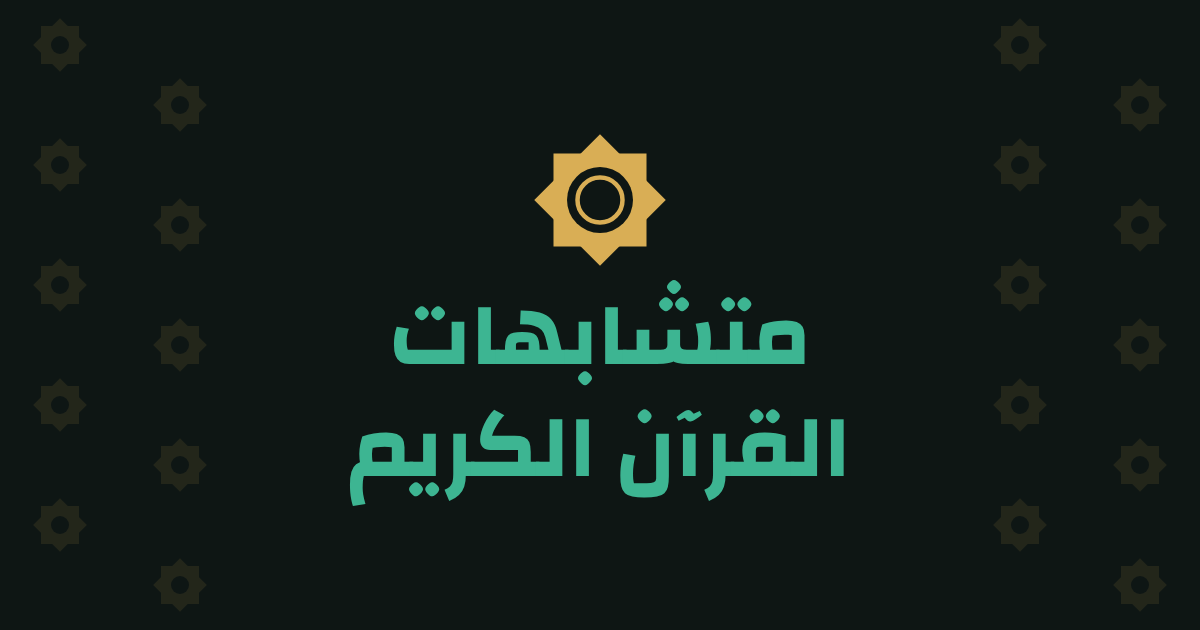
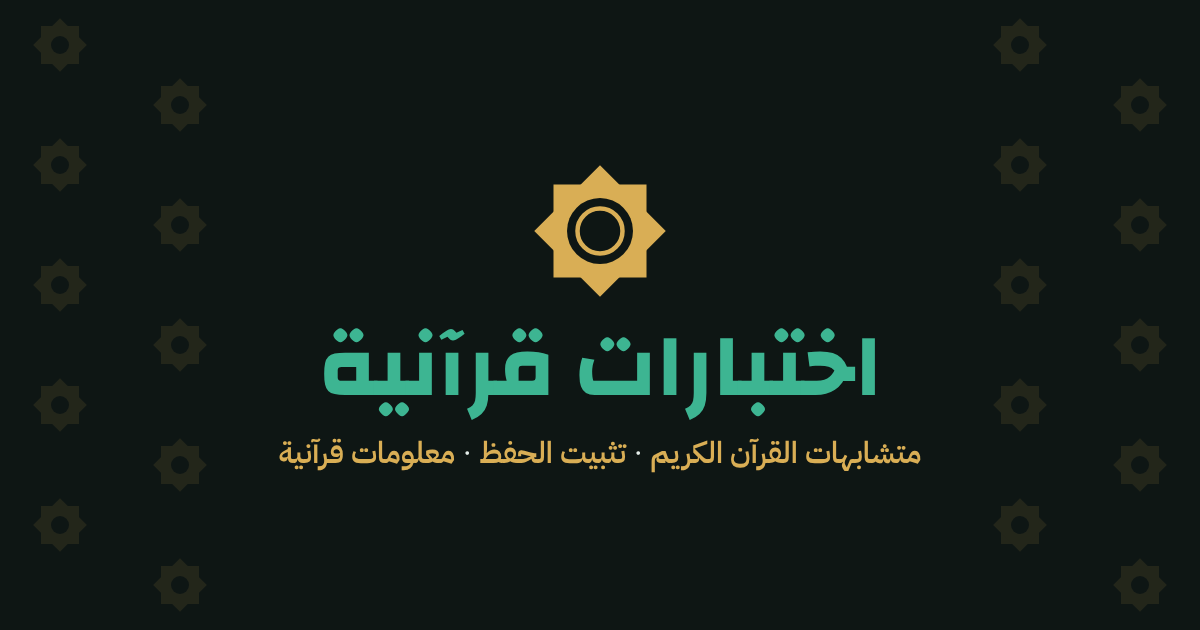
Add files via upload

Changed region(s): [[0.2158, 0.2111, 0.7708, 0.8143]]

diff --git a/privacy.html b/privacy.html
@@ -2,113 +2,17 @@
 <html lang="ar" dir="rtl">
 <head>
 <meta charset="utf-8">
-<meta name="viewport" content="width=device-width, initial-scale=1, viewport-fit=cover">
-<title>سياسة الخصوصية · متشابهات القرآن الكريم</title>
-<meta name="description" content="سياسة الخصوصية لموقع متشابهات القرآن الكريم">
-<meta name="theme-color" content="#0E6B57">
-<link rel="icon" href="icon-192.png">
-<link rel="preconnect" href="https://fonts.googleapis.com">
-<link rel="preconnect" href="https://fonts.gstatic.com" crossorigin>
-<link rel="stylesheet" href="https://fonts.googleapis.com/css2?family=Changa:wght@700&family=IBM+Plex+Sans+Arabic:wght@400;600&display=swap">
-<script>
-try { var t = JSON.parse(localStorage.getItem('mut-theme')); if (t === 'dark' || t === 'light') document.documentElement.setAttribute('data-theme', t); } catch (e) {}
-</script>
-<style>
-:root{--bg:#EDF1EE;--surface:#FBFCFB;--ink:#15241F;--muted:#5C6E68;--line:#CCD8D3;--accent:#0E6B57;
-  --f-display:"Changa","IBM Plex Sans Arabic",sans-serif;--f-ui:"IBM Plex Sans Arabic","Segoe UI",Tahoma,sans-serif}
-@media (prefers-color-scheme: dark){:root:not([data-theme="light"]){--bg:#0E1614;--surface:#15201D;--ink:#E5EEEA;--muted:#93A6A0;--line:#2A3934;--accent:#3DB592;color-scheme:dark}}
-:root[data-theme="dark"]{--bg:#0E1614;--surface:#15201D;--ink:#E5EEEA;--muted:#93A6A0;--line:#2A3934;--accent:#3DB592;color-scheme:dark}
-*{box-sizing:border-box}
-body{margin:0;background:var(--bg);color:var(--ink);font-family:var(--f-ui);font-size:16px;line-height:1.75}
-.wrap{max-width:680px;margin:0 auto;padding-inline:16px;padding-block:24px 56px}
-h1{font-family:var(--f-display);color:var(--accent);font-size:1.9rem;margin:0 0 4px}
-h2{font-family:var(--f-display);font-size:1.15rem;margin:26px 0 6px}
-p,li{margin:0 0 8px}
-ul{padding-inline-start:1.3em;margin:0 0 8px}
-.meta{color:var(--muted);font-size:.9rem}
-.back{display:inline-block;margin-bottom:18px;color:var(--accent);font-weight:600;text-decoration:none}
-hr{border:none;border-top:1px solid var(--line);margin:40px 0}
-[lang="en"]{direction:ltr;text-align:left}
-a{color:var(--accent)}
-</style>
+<meta name="viewport" content="width=device-width, initial-scale=1">
+<title>اختبارات قرآنية</title>
+<meta name="robots" content="noindex">
+<link rel="canonical" href="https://quranic-verses.github.io/Quranic-Tests/privacy.html">
+<meta property="og:title" content="اختبارات قرآنية">
+<meta property="og:image" content="https://quranic-verses.github.io/Quranic-Tests/og-image.png?v=6">
+<meta http-equiv="refresh" content="0; url=https://quranic-verses.github.io/Quranic-Tests/privacy.html">
+<script>location.replace('https://quranic-verses.github.io/Quranic-Tests/privacy.html' + location.search + location.hash);</script>
+<style>body{font-family:sans-serif;text-align:center;padding:40px 16px;background:#0E1614;color:#E5EEEA}a{color:#3DB592}</style>
 </head>
 <body>
-<div class="wrap">
-  <a class="back" href="./">← العودة إلى الاختبارات</a>
-
-  <section lang="ar" dir="rtl">
-    <h1>سياسة الخصوصية</h1>
-    <p class="meta">موقع «متشابهات القرآن الكريم» · آخر تحديث: ٣ أكتوبر ٢٠٢٦</p>
-
-    <p>«متشابهات القرآن الكريم» اختبار يومي مجاني في متشابهات القرآن الكريم. لا تحتاج إلى حساب، ولا نطلب منك اسمك أو بريدك أو أي معلومات شخصية.</p>
-
-    <h2>ما الذي يُحفظ على جهازك</h2>
-    <p>يحفظ الموقع تقدّمك في اختبارات اليوم، وإحصائياتك، والأسئلة التي أخطأت فيها (لتراجعها)، والأجزاء التي اخترتها للتدريب، وإعداداتك، داخل متصفحك على جهازك فقط. هذه البيانات لا تُرسل إلينا ولا إلى أي جهة أخرى، ويمكنك حذفها في أي وقت بمسح بيانات الموقع من متصفحك.</p>
-
-    <h2>إحصاءات الزيارات</h2>
-    <p>نستخدم خدمة <a href="https://www.goatcounter.com" target="_blank" rel="noopener">GoatCounter</a> لمعرفة عدد الزيارات فقط. هي خدمة تحترم الخصوصية: لا تستخدم ملفات تعريف الارتباط (الكوكيز)، ولا تتتبعك بين المواقع، ولا تجمع معلومات تعرّف بشخصك. نرى منها أرقامًا عامة مثل عدد الزيارات اليومية، ونوع الجهاز، والدولة.</p>
-
-    <h2>خدمات خارجية يستخدمها الموقع</h2>
-    <ul>
-      <li><b>استضافة الموقع:</b> GitHub Pages، وقد تحتفظ GitHub بسجلات تقنية للزيارات لأغراض الأمان.</li>
-      <li><b>الخطوط:</b> Google Fonts، لعرض الخطوط العربية.</li>
-      <li><b>التلاوة:</b> عند الضغط على زر الاستماع يُحمَّل ملف الصوت من خوادم Islamic Network.</li>
-      <li><b>مصحف المدينة والتفسير:</b> الزر يفتح صفحة الآية مع التفسير الميسر في المصحف الإلكتروني لجامعة الملك سعود (quran.ksu.edu.sa) في صفحة جديدة.</li>
-    </ul>
-    <p>كأي موقع على الإنترنت، ترى هذه الخدمات عنوان IP الخاص بجهازك عند تحميل الملفات منها، وتخضع لسياسات الخصوصية الخاصة بها.</p>
-
-    <h2>ما لا نفعله</h2>
-    <ul>
-      <li>لا نبيع أي بيانات ولا نشاركها.</li>
-      <li>لا نعرض إعلانات حاليًا.</li>
-      <li>لا نجمع بيانات شخصية عن أي مستخدم، بمن فيهم الأطفال.</li>
-      <li>زر «أبلغ عن خطأ» يفتح برنامج البريد على جهازك برسالة جاهزة، ولا يُرسل شيئًا إلا إذا أرسلتها أنت.</li>
-    </ul>
-
-    <h2>التغييرات</h2>
-    <p>إذا تغيّرت هذه السياسة سنحدّث هذه الصفحة وتاريخ آخر تحديث أعلاها.</p>
-
-    <h2>التواصل</h2>
-    <p>لأي سؤال أو ملاحظة أو طلب بخصوص الخصوصية: <a href="mailto:quranicstuff@gmail.com">quranicstuff@gmail.com</a></p>
-  </section>
-
-  <hr>
-
-  <section lang="en" dir="ltr">
-    <h1>Privacy Policy</h1>
-    <p class="meta">"Mutashabihat Al-Quran Al-Kareem" (متشابهات القرآن الكريم) · Last updated: 3 October 2026</p>
-
-    <p>Mutashabihat Al-Quran Al-Kareem is a free daily quiz on similar verses in the Quran. It needs no account, and we never ask for your name, email or any other personal information.</p>
-
-    <h2>What is stored on your device</h2>
-    <p>The site saves your daily quiz progress, your stats, the questions you got wrong (so you can review them), the juz you chose for practice and your settings in your own browser, on your device only. This data is never sent to us or anyone else, and you can delete it at any time by clearing this site's data in your browser.</p>
-
-    <h2>Visit statistics</h2>
-    <p>We use <a href="https://www.goatcounter.com" target="_blank" rel="noopener">GoatCounter</a> only to count visits. It is privacy-friendly: it uses no cookies, does not track you across websites and collects no information that identifies you. We only see general numbers such as daily visits, device type and country.</p>
-
-    <h2>Third-party services the site uses</h2>
-    <ul>
-      <li><b>Hosting:</b> GitHub Pages. GitHub may keep technical logs of visits for security.</li>
-      <li><b>Fonts:</b> Google Fonts, to display the Arabic fonts.</li>
-      <li><b>Recitation:</b> when you press the play button, the audio file loads from Islamic Network's servers.</li>
-      <li><b>Madinah mushaf and tafsir:</b> the button opens the verse's page with Al-Tafsir Al-Muyassar in King Saud University's e-mushaf (quran.ksu.edu.sa) in a new page.</li>
-    </ul>
-    <p>Like any website, these services see your device's IP address when files load from them, and their own privacy policies apply.</p>
-
-    <h2>What we don't do</h2>
-    <ul>
-      <li>We don't sell or share any data.</li>
-      <li>We don't show ads at the moment.</li>
-      <li>We don't collect personal data from anyone, including children.</li>
-      <li>The «report a mistake» link opens your own email app with a ready message; nothing is sent unless you send it.</li>
-    </ul>
-
-    <h2>Changes</h2>
-    <p>If this policy changes, we will update this page and the date at the top.</p>
-
-    <h2>Contact</h2>
-    <p>For any question, feedback or privacy request: <a href="mailto:quranicstuff@gmail.com">quranicstuff@gmail.com</a></p>
-  </section>
-</div>
+<p>انتقل الموقع إلى عنوان جديد: <a href="https://quranic-verses.github.io/Quranic-Tests/privacy.html">اختبارات قرآنية</a></p>
 </body>
 </html>

diff --git a/sw.js b/sw.js
@@ -1,7 +1,22 @@
-// The site moved to https://quranic-verses.github.io/Quranic-Tests/ — this removes the old offline copy from phones.
+// The site moved to https://quranic-verses.github.io/Quranic-Tests/
+// This replaces the old offline copy: it clears the old cache, sends open pages to the new address, then removes itself.
+const NEW = 'https://quranic-verses.github.io/Quranic-Tests/';
+const target = url => {
+  const page = new URL(url).pathname.split('/').pop();
+  return NEW + ({"farq.html":"farq.html","privacy.html":"privacy.html"}[page] || "");
+};
 self.addEventListener('install', () => self.skipWaiting());
 self.addEventListener('activate', e => {
-  e.waitUntil(caches.keys().then(keys => Promise.all(keys.map(k => caches.delete(k))))
-    .then(() => self.registration.unregister())
-    .then(() => self.clients.matchAll()).then(cs => cs.forEach(c => c.navigate(c.url))));
+  e.waitUntil((async () => {
+    const keys = await caches.keys();
+    await Promise.all(keys.map(k => caches.delete(k)));
+    await self.clients.claim();
+    const cs = await self.clients.matchAll({ type: 'window', includeUncontrolled: true });
+    await self.registration.unregister();
+    await Promise.all(cs.map(c => c.navigate(target(c.url)).catch(() => {})));
+  })());
+});
+// Never serve anything from cache any more.
+self.addEventListener('fetch', e => {
+  if (e.request.mode === 'navigate') e.respondWith(Response.redirect(target(e.request.url), 302));
 });

diff --git a/kalima.html b/kalima.html
@@ -5,14 +5,14 @@
 <meta name="viewport" content="width=device-width, initial-scale=1">
 <title>اختبارات قرآنية</title>
 <meta name="robots" content="noindex">
-<link rel="canonical" href="https://quranic-verses.github.io/Quranic-Tests/kalima.html">
+<link rel="canonical" href="https://quranic-verses.github.io/Quranic-Tests/">
 <meta property="og:title" content="اختبارات قرآنية">
 <meta property="og:image" content="https://quranic-verses.github.io/Quranic-Tests/og-image.png?v=6">
-<meta http-equiv="refresh" content="0; url=https://quranic-verses.github.io/Quranic-Tests/kalima.html">
-<script>location.replace('https://quranic-verses.github.io/Quranic-Tests/kalima.html' + location.search + location.hash);</script>
+<meta http-equiv="refresh" content="0; url=https://quranic-verses.github.io/Quranic-Tests/">
+<script>location.replace('https://quranic-verses.github.io/Quranic-Tests/' + location.search + location.hash);</script>
 <style>body{font-family:sans-serif;text-align:center;padding:40px 16px;background:#0E1614;color:#E5EEEA}a{color:#3DB592}</style>
 </head>
 <body>
-<p>انتقل الموقع إلى عنوان جديد: <a href="https://quranic-verses.github.io/Quranic-Tests/kalima.html">اختبارات قرآنية</a></p>
+<p>انتقل الموقع إلى عنوان جديد: <a href="https://quranic-verses.github.io/Quranic-Tests/">اختبارات قرآنية</a></p>
 </body>
 </html>

diff --git a/aya.html b/aya.html
@@ -5,14 +5,14 @@
 <meta name="viewport" content="width=device-width, initial-scale=1">
 <title>اختبارات قرآنية</title>
 <meta name="robots" content="noindex">
-<link rel="canonical" href="https://quranic-verses.github.io/Quranic-Tests/aya.html">
+<link rel="canonical" href="https://quranic-verses.github.io/Quranic-Tests/">
 <meta property="og:title" content="اختبارات قرآنية">
 <meta property="og:image" content="https://quranic-verses.github.io/Quranic-Tests/og-image.png?v=6">
-<meta http-equiv="refresh" content="0; url=https://quranic-verses.github.io/Quranic-Tests/aya.html">
-<script>location.replace('https://quranic-verses.github.io/Quranic-Tests/aya.html' + location.search + location.hash);</script>
+<meta http-equiv="refresh" content="0; url=https://quranic-verses.github.io/Quranic-Tests/">
+<script>location.replace('https://quranic-verses.github.io/Quranic-Tests/' + location.search + location.hash);</script>
 <style>body{font-family:sans-serif;text-align:center;padding:40px 16px;background:#0E1614;color:#E5EEEA}a{color:#3DB592}</style>
 </head>
 <body>
-<p>انتقل الموقع إلى عنوان جديد: <a href="https://quranic-verses.github.io/Quranic-Tests/aya.html">اختبارات قرآنية</a></p>
+<p>انتقل الموقع إلى عنوان جديد: <a href="https://quranic-verses.github.io/Quranic-Tests/">اختبارات قرآنية</a></p>
 </body>
 </html>

diff --git a/README.md b/README.md
@@ -1,14 +1,5 @@
-# متشابهات القرآن الكريم
+# متشابهات القرآن الكريم — moved
 
-اختباران يوميان في متشابهات القرآن الكريم، مع التدريب على الأجزاء المحفوظة:
+This site moved to **https://quranic-verses.github.io/Quranic-Tests/** (اختبارات قرآنية).
 
-- `index.html` — أين ورد؟: موضع متكرر وعدد تكراره، واللاعب يكتب أسماء السور التي ورد فيها
-- `farq.html` — ميّز بينهما: موضعان متشابهان يختلفان في كلمة أو كلمتين، فاعرف سورة كل منهما (822 اختبارًا، الاختبار ١ يوم 3 أكتوبر 2026) + التدريب على الأجزاء المحفوظة
-- كل البيانات داخل نفس الملف: 2,461 سؤالًا في «أين ورد؟» و822 في «ميّز بينهما»
-- `manifest.webmanifest`, `sw.js`, `icon-192.png`, `icon-512.png`, `apple-touch-icon.png` — التثبيت على الهاتف والعمل بدون إنترنت
-- `privacy.html` — سياسة الخصوصية (عربي + English)، مطلوبة لمتجر Google Play
-- `og-image.png` — صورة المعاينة عند مشاركة الرابط
-
-الاختبار يتغير تلقائيًا كل يوم عند منتصف الليل بتوقيت القاهرة لكل اللاعبين. الاختبار رقم ١ هو يوم 2 أكتوبر 2026.
-
-Quran text: Tanzil Quran Text (Uthmani, Version 1.1), Copyright (C) 2007-2026 Tanzil Project, CC BY 3.0, used verbatim — https://tanzil.net (the full Tanzil copyright notice is kept inside index.html and farq.html). Audio: Mahmoud Khalil Al-Husary (murattal) via the Islamic Network CDN (cdn.islamic.network). Juz/hizb/rub: quran-meta (MIT).
+Every page here only redirects to the new address. `sw.js` removes the old offline copy from phones that installed the old site.
